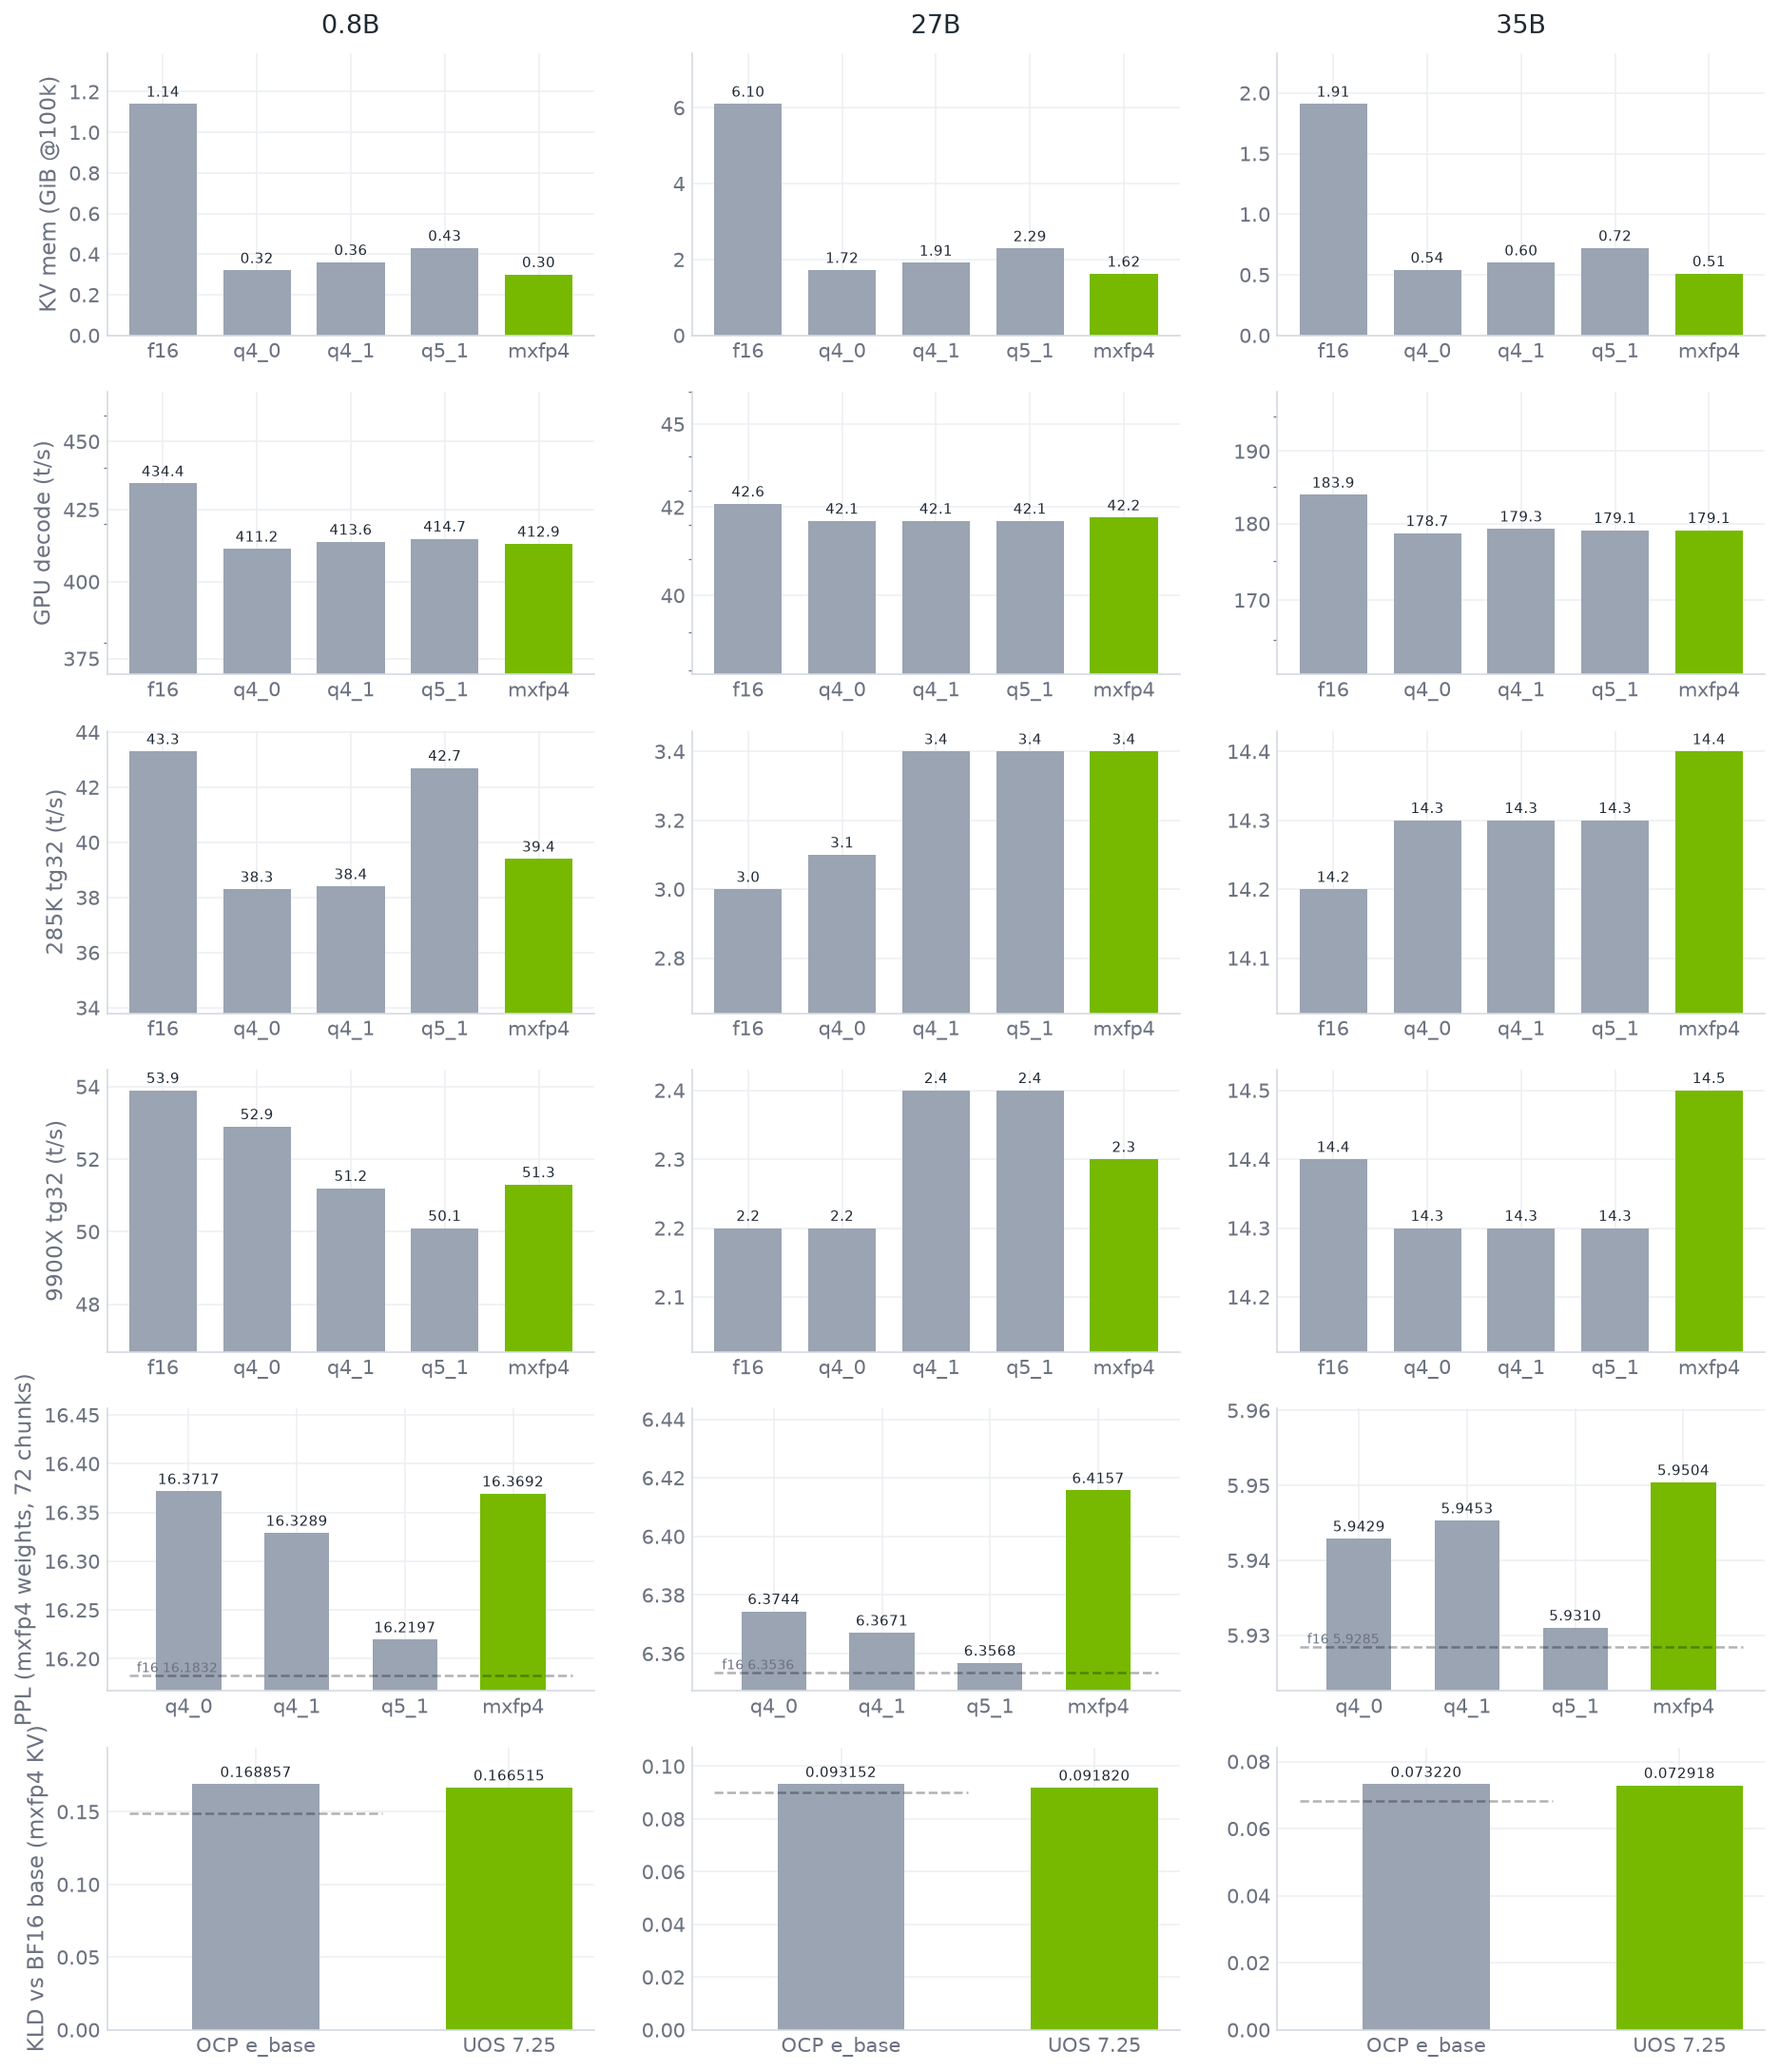
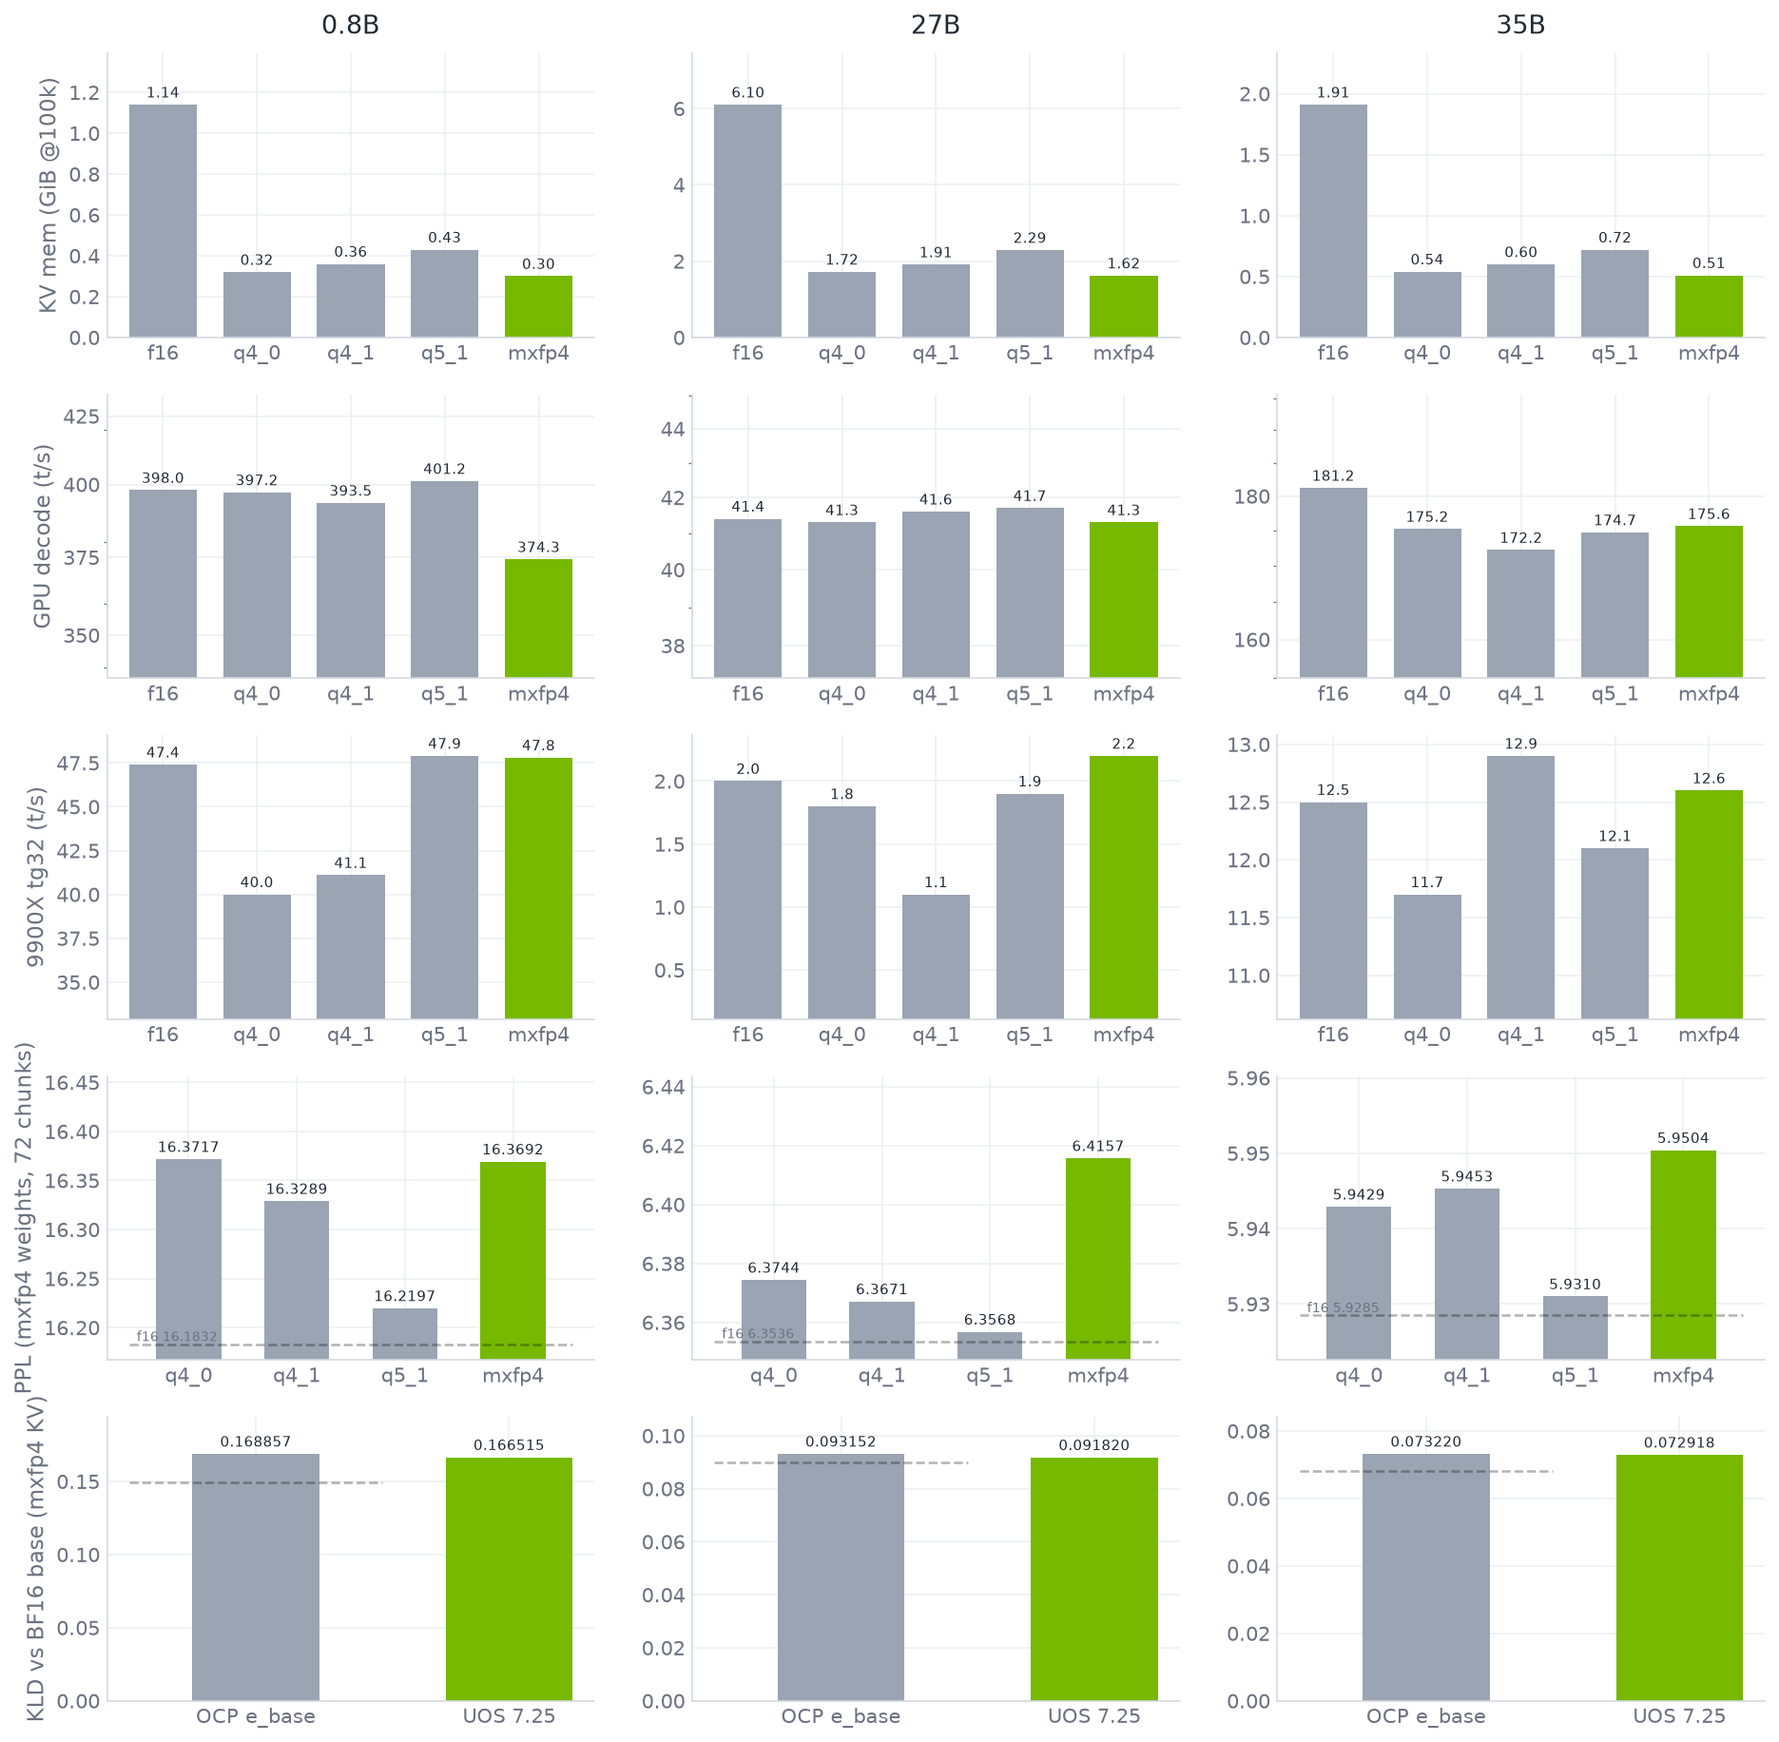
KV: this-box data only (5060 Ti @150W + 9900X 24t), 5-row chart

diff --git a/charts.py b/charts.py
@@ -193,19 +193,16 @@ def ppl_vs_size():
 KV_TYPES = ["f16", "q4_0", "q4_1", "q5_1", "mxfp4"]
 KV = {
     "0.8B": {"mem": {"f16": 1.14, "q4_0": 0.32, "q4_1": 0.36, "q5_1": 0.43, "mxfp4": 0.30},
-             "tg":  {"f16": 434.4, "q4_0": 411.2, "q4_1": 413.6, "q5_1": 414.7, "mxfp4": 412.9},
-             "cpu285":  {"f16": 43.3, "q4_0": 38.3, "q4_1": 38.4, "q5_1": 42.7, "mxfp4": 39.4},
-             "cpu9900": {"f16": 53.9, "q4_0": 52.9, "q4_1": 51.2, "q5_1": 50.1, "mxfp4": 51.3},
+             "tg":  {"f16": 398.0, "q4_0": 397.2, "q4_1": 393.5, "q5_1": 401.2, "mxfp4": 374.3},
+             "cpu9900": {"f16": 47.4, "q4_0": 40.0, "q4_1": 41.1, "q5_1": 47.9, "mxfp4": 47.8},
              "ppl": {"f16": 16.1832, "q4_0": 16.3717, "q4_1": 16.3289, "q5_1": 16.2197, "mxfp4": 16.3692}},
     "27B":  {"mem": {"f16": 6.10, "q4_0": 1.72, "q4_1": 1.91, "q5_1": 2.29, "mxfp4": 1.62},
-             "tg":  {"f16": 42.6, "q4_0": 42.1, "q4_1": 42.1, "q5_1": 42.1, "mxfp4": 42.2},
-             "cpu285":  {"f16": 3.0, "q4_0": 3.1, "q4_1": 3.4, "q5_1": 3.4, "mxfp4": 3.4},
-             "cpu9900": {"f16": 2.2, "q4_0": 2.2, "q4_1": 2.4, "q5_1": 2.4, "mxfp4": 2.3},
+             "tg":  {"f16": 41.4, "q4_0": 41.3, "q4_1": 41.6, "q5_1": 41.7, "mxfp4": 41.3},
+             "cpu9900": {"f16": 2.0, "q4_0": 1.8, "q4_1": 1.1, "q5_1": 1.9, "mxfp4": 2.2},
              "ppl": {"f16": 6.3536, "q4_0": 6.3744, "q4_1": 6.3671, "q5_1": 6.3568, "mxfp4": 6.4157}},
     "35B":  {"mem": {"f16": 1.91, "q4_0": 0.54, "q4_1": 0.60, "q5_1": 0.72, "mxfp4": 0.51},
-             "tg":  {"f16": 183.9, "q4_0": 178.7, "q4_1": 179.3, "q5_1": 179.1, "mxfp4": 179.1},
-             "cpu285":  {"f16": 14.2, "q4_0": 14.3, "q4_1": 14.3, "q5_1": 14.3, "mxfp4": 14.4},
-             "cpu9900": {"f16": 14.4, "q4_0": 14.3, "q4_1": 14.3, "q5_1": 14.3, "mxfp4": 14.5},
+             "tg":  {"f16": 181.2, "q4_0": 175.2, "q4_1": 172.2, "q5_1": 174.7, "mxfp4": 175.6},
+             "cpu9900": {"f16": 12.5, "q4_0": 11.7, "q4_1": 12.9, "q5_1": 12.1, "mxfp4": 12.6},
              "ppl": {"f16": 5.9285, "q4_0": 5.9429, "q4_1": 5.9453, "q5_1": 5.9310, "mxfp4": 5.9504}},
 }
 
@@ -229,7 +226,7 @@ def _speed_row(ax, vals, ylabel, log=True):
         ax.set_ylim(vmin - (vmax - vmin) * 0.9, vmax + (vmax - vmin) * 0.15)
 
 def kv_cache():
-    fig, ax = new_figure(6, 3, w=5.0, h=3.0)
+    fig, ax = new_figure(5, 3, w=5.0, h=3.0)
     for col, (model, d) in enumerate(KV.items()):
         axm = ax[col]
         style_axes(axm, title=model, ylabel="KV mem (GiB @100k)" if col == 0 else None)
@@ -237,9 +234,8 @@ def kv_cache():
         axm.bar_label(bm, fmt="%.2f", fontsize=7, color=PALETTE["text"], padding=2)
         axm.set_ylim(0, max(d["mem"].values()) * 1.22)
         _speed_row(ax[3 + col], d["tg"], "GPU decode (t/s)" if col == 0 else None)
-        _speed_row(ax[6 + col], d["cpu285"], "285K tg32 (t/s)" if col == 0 else None, log=False)
-        _speed_row(ax[9 + col], d["cpu9900"], "9900X tg32 (t/s)" if col == 0 else None, log=False)
-        axp = ax[12 + col]
+        _speed_row(ax[6 + col], d["cpu9900"], "9900X tg32 (t/s)" if col == 0 else None, log=False)
+        axp = ax[9 + col]
         style_axes(axp, ylabel="PPL (mxfp4 weights, 72 chunks)" if col == 0 else None)
         f16p = d["ppl"]["f16"]
         kv4 = [t for t in KV_TYPES if t != "f16"]
@@ -249,7 +245,7 @@ def kv_cache():
         axp.text(-0.55, f16p, f"  f16 {f16p:.4f}", fontsize=6.5, color=PALETTE["muted"], va="bottom")
         vmin, vmax = min(d["ppl"].values()), max(d["ppl"].values())
         axp.set_ylim(vmin * 0.999, vmax + (vmax - vmin) * 0.45)
-        axu = ax[15 + col]
+        axu = ax[12 + col]
         style_axes(axu, ylabel="KLD vs BF16 base (mxfp4 KV)" if col == 0 else None)
         c0, e, u = KVDATA[model]["kld"]
         bu = axu.bar(["OCP e_base", "UOS 7.25"], [e, u], color=[PALETTE["other"], PALETTE["mx"]], width=0.5)

diff --git a/PR-body.md b/PR-body.md
@@ -163,7 +163,7 @@ GPU: 2x RTX 5060 Ti, -sm tensor, -fa on, -r 5. CPU: 9900X, 24 threads, -r 5. 27B
 
 **KV cache (`--cache-type-k/--cache-type-v mxfp4`):**
 
-![KV cache: memory, GPU decode, 285K/9900X CPU tg32, PPL by KV type (72 chunks), and UOS vs e_base KLD (f16/BF16 ref lines)](https://raw.githubusercontent.com/timothyeburke/mxfp4-pr-assets/master/kv-cache.png)
+![KV cache: memory, GPU decode, 9900X CPU tg32, PPL by KV type (72 chunks), and UOS vs e_base KLD (f16/BF16 ref lines)](https://raw.githubusercontent.com/timothyeburke/mxfp4-pr-assets/master/kv-cache.png)
 
 **KV cache type is a memory choice, not a speed one:** quantized KV (mxfp4) uses ~3-4x less memory than f16 at long context, while decode throughput is flat across all KV types.
 
@@ -172,25 +172,25 @@ GPU: 2x RTX 5060 Ti, -sm tensor, -fa on, -r 5. CPU: 9900X, 24 threads, -r 5. 27B
 
 KV cache memory (GiB) at 100k tokens, and throughput by KV type: GPU (2x RTX 5060 Ti @150W, Q4_1 weights, pp4096/tg128, --flash-attn 1) and CPU (pp512/tg32, 24 threads, --n-gpu-layers 0), -r 5:
 
-| model | KV | memory @100k | GPU pp4096 | GPU tg128 | 285K pp512 | 285K tg32 | 9900X pp512 | 9900X tg32 |
-|---|---|---:|---:|---:|---:|---:|---:|---:|
-| Qwen3.5-0.8B | f16 | 1.14 GiB | 19006.9 | 434.4 | 985.5 | 43.3 | 846.0 | 53.9 |
-|  | q4_0 | 0.32 GiB | 18738.0 | 411.2 | 949.8 | 38.3 | 825.6 | 52.9 |
-|  | q4_1 | 0.36 GiB | 18734.4 | 413.6 | 928.9 | 38.4 | 860.9 | 51.2 |
-|  | q5_1 | 0.43 GiB | 18772.1 | 414.7 | 869.6 | 42.7 | 265.8 | 50.1 |
-|  | **mxfp4** | **0.30 GiB** | 18737.8 | 412.9 | 850.1 | 39.4 | 371.3 | 51.3 |
-| Qwen3.8-27B | f16 | 6.10 GiB | 1461.1 | 42.6 | 45.7 | 3.0 | 49.9 | 2.2 |
-|  | q4_0 | 1.72 GiB | 1449.4 | 42.1 | 45.1 | 3.1 | 49.3 | 2.2 |
-|  | q4_1 | 1.91 GiB | 1445.7 | 42.1 | 45.2 | 3.4 | 51.1 | 2.4 |
-|  | q5_1 | 2.29 GiB | 1446.9 | 42.1 | 44.7 | 3.4 | 43.8 | 2.4 |
-|  | **mxfp4** | **1.62 GiB** | 1447.2 | 42.2 | 44.5 | 3.4 | 45.7 | 2.3 |
-| Qwen3.6-35B-A3B | f16 | 1.91 GiB | 3524.5 | 183.9 | 191.3 | 14.2 | 173.3 | 14.4 |
-|  | q4_0 | 0.54 GiB | 3496.9 | 178.7 | 187.2 | 14.3 | 158.5 | 14.3 |
-|  | q4_1 | 0.60 GiB | 3509.4 | 179.3 | 186.7 | 14.0 | 143.2 | 14.3 |
-|  | q5_1 | 0.72 GiB | 3508.9 | 179.1 | 180.6 | 14.3 | 129.6 | 14.0 |
-|  | **mxfp4** | **0.51 GiB** | 3494.9 | 179.1 | 174.8 | 14.4 | 130.7 | 14.5 |
+| model | KV | memory @100k | GPU pp4096 | GPU tg128 | 9900X pp512 | 9900X tg32 |
+|---|---|---:|---:|---:|---:|---:|
+| Qwen3.5-0.8B | f16 | 1.14 GiB | 17549.8 | 398.0 | 3942.6 | 47.4 |
+|  | q4_0 | 0.32 GiB | 17311.7 | 397.2 | 3563.8 | 40.0 |
+|  | q4_1 | 0.36 GiB | 17321.7 | 393.5 | 3695.9 | 41.1 |
+|  | q5_1 | 0.43 GiB | 17215.6 | 401.2 | 2156.4 | 47.9 |
+|  | **mxfp4** | **0.30 GiB** | 17228.7 | 374.3 | 3144.8 | 47.8 |
+| Qwen3.8-27B | f16 | 6.10 GiB | 1270.8 | 41.4 | 266.2 | 2.0 |
+|  | q4_0 | 1.72 GiB | 1418.4 | 41.3 | 201.9 | 1.8 |
+|  | q4_1 | 1.91 GiB | 1420.0 | 41.6 | 143.2 | 1.1 |
+|  | q5_1 | 2.29 GiB | 1412.6 | 41.7 | 204.7 | 1.9 |
+|  | **mxfp4** | **1.62 GiB** | 1417.3 | 41.3 | 207.5 | 2.2 |
+| Qwen3.6-35B-A3B | f16 | 1.91 GiB | 3369.9 | 181.2 | 289.7 | 12.5 |
+|  | q4_0 | 0.54 GiB | 3367.8 | 175.2 | 329.3 | 11.7 |
+|  | q4_1 | 0.60 GiB | 3367.8 | 172.2 | 371.8 | 12.9 |
+|  | q5_1 | 0.72 GiB | 3310.5 | 174.7 | 364.1 | 12.1 |
+|  | **mxfp4** | **0.51 GiB** | 3366.0 | 175.6 | 361.3 | 12.6 |
 
-These are hybrid linear/full-attention models - full attention every 4 blocks, so only a fraction of layers grow the KV cache (0.8B: 6 of 24 layers; 27B: 16 of 64; 35B: 10 of 40; KV head dim 256); the sizes above reflect that. The KV-type cost is consistent across weight quants (both the Q4_1 and mxfp4 weight files show a similar few-% slowdown vs f16); the 9900X is notably more sensitive to the Q5_1 KV, while mxfp4 stays close to f16 on both CPUs.
+These are hybrid linear/full-attention models - full attention every 4 blocks, so only a fraction of layers grow the KV cache (0.8B: 6 of 24 layers; 27B: 16 of 64; 35B: 10 of 40; KV head dim 256); the sizes above reflect that. The KV-type cost is consistent across weight quants (both the Q4_1 and mxfp4 weight files show a similar few-% slowdown vs f16); the 9900X is notably more sensitive to the Q5_1 KV, while mxfp4 stays close to f16 on both GPU and CPU.
 
 </details>
 
@@ -263,7 +263,7 @@ Prior art: the closed #27315 improved MXFP4 while keeping e2m1 activations (W4A4
 | imatrix weight quant | `llama-quantize --imatrix` | calibration perplexity run -> importance matrix; per-block weight-scale search around /4.0 |
 | weight RMSE | `llama-quantize` / `llama-bench` | vs the dequantized BF16 |
 
-Hardware: 2x RTX 5070 Ti (local) and 2x RTX 5060 Ti (throttled at 150/180W); CPU: Intel Core Ultra 9 285K and AMD Ryzen 9 9900X (24 threads). All models are ggml-org; KLD and PPL are hardware-independent.
+Hardware: 2x RTX 5060 Ti (throttled to 150W); CPU: AMD Ryzen 9 9900X (24 threads). All models are ggml-org; KLD and PPL are hardware-independent.
 
 </details>
 
